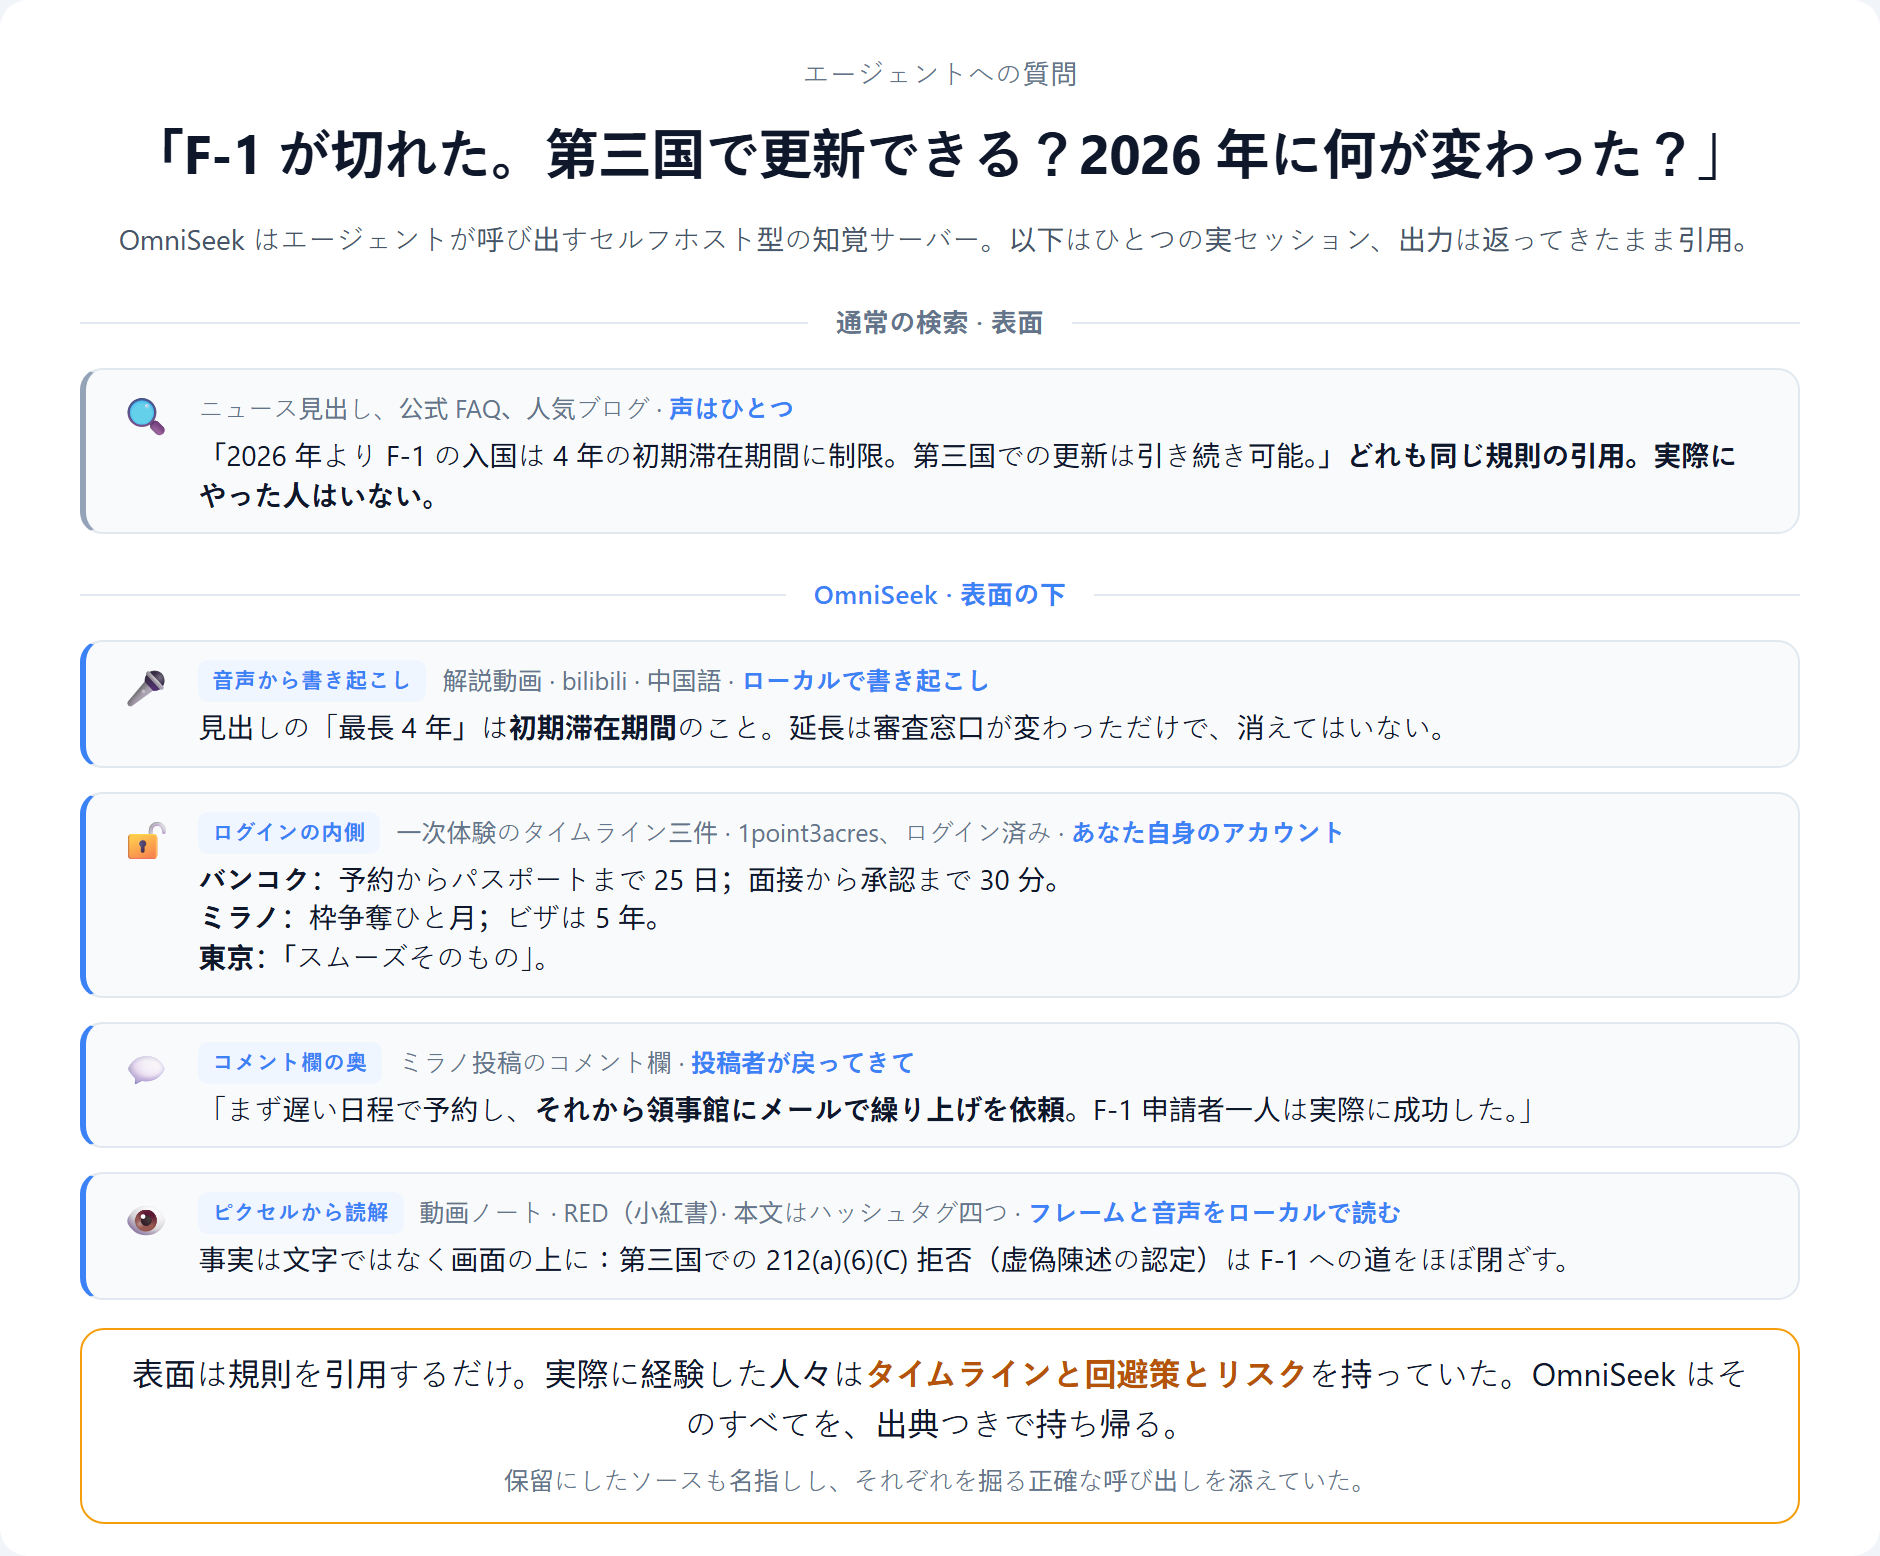
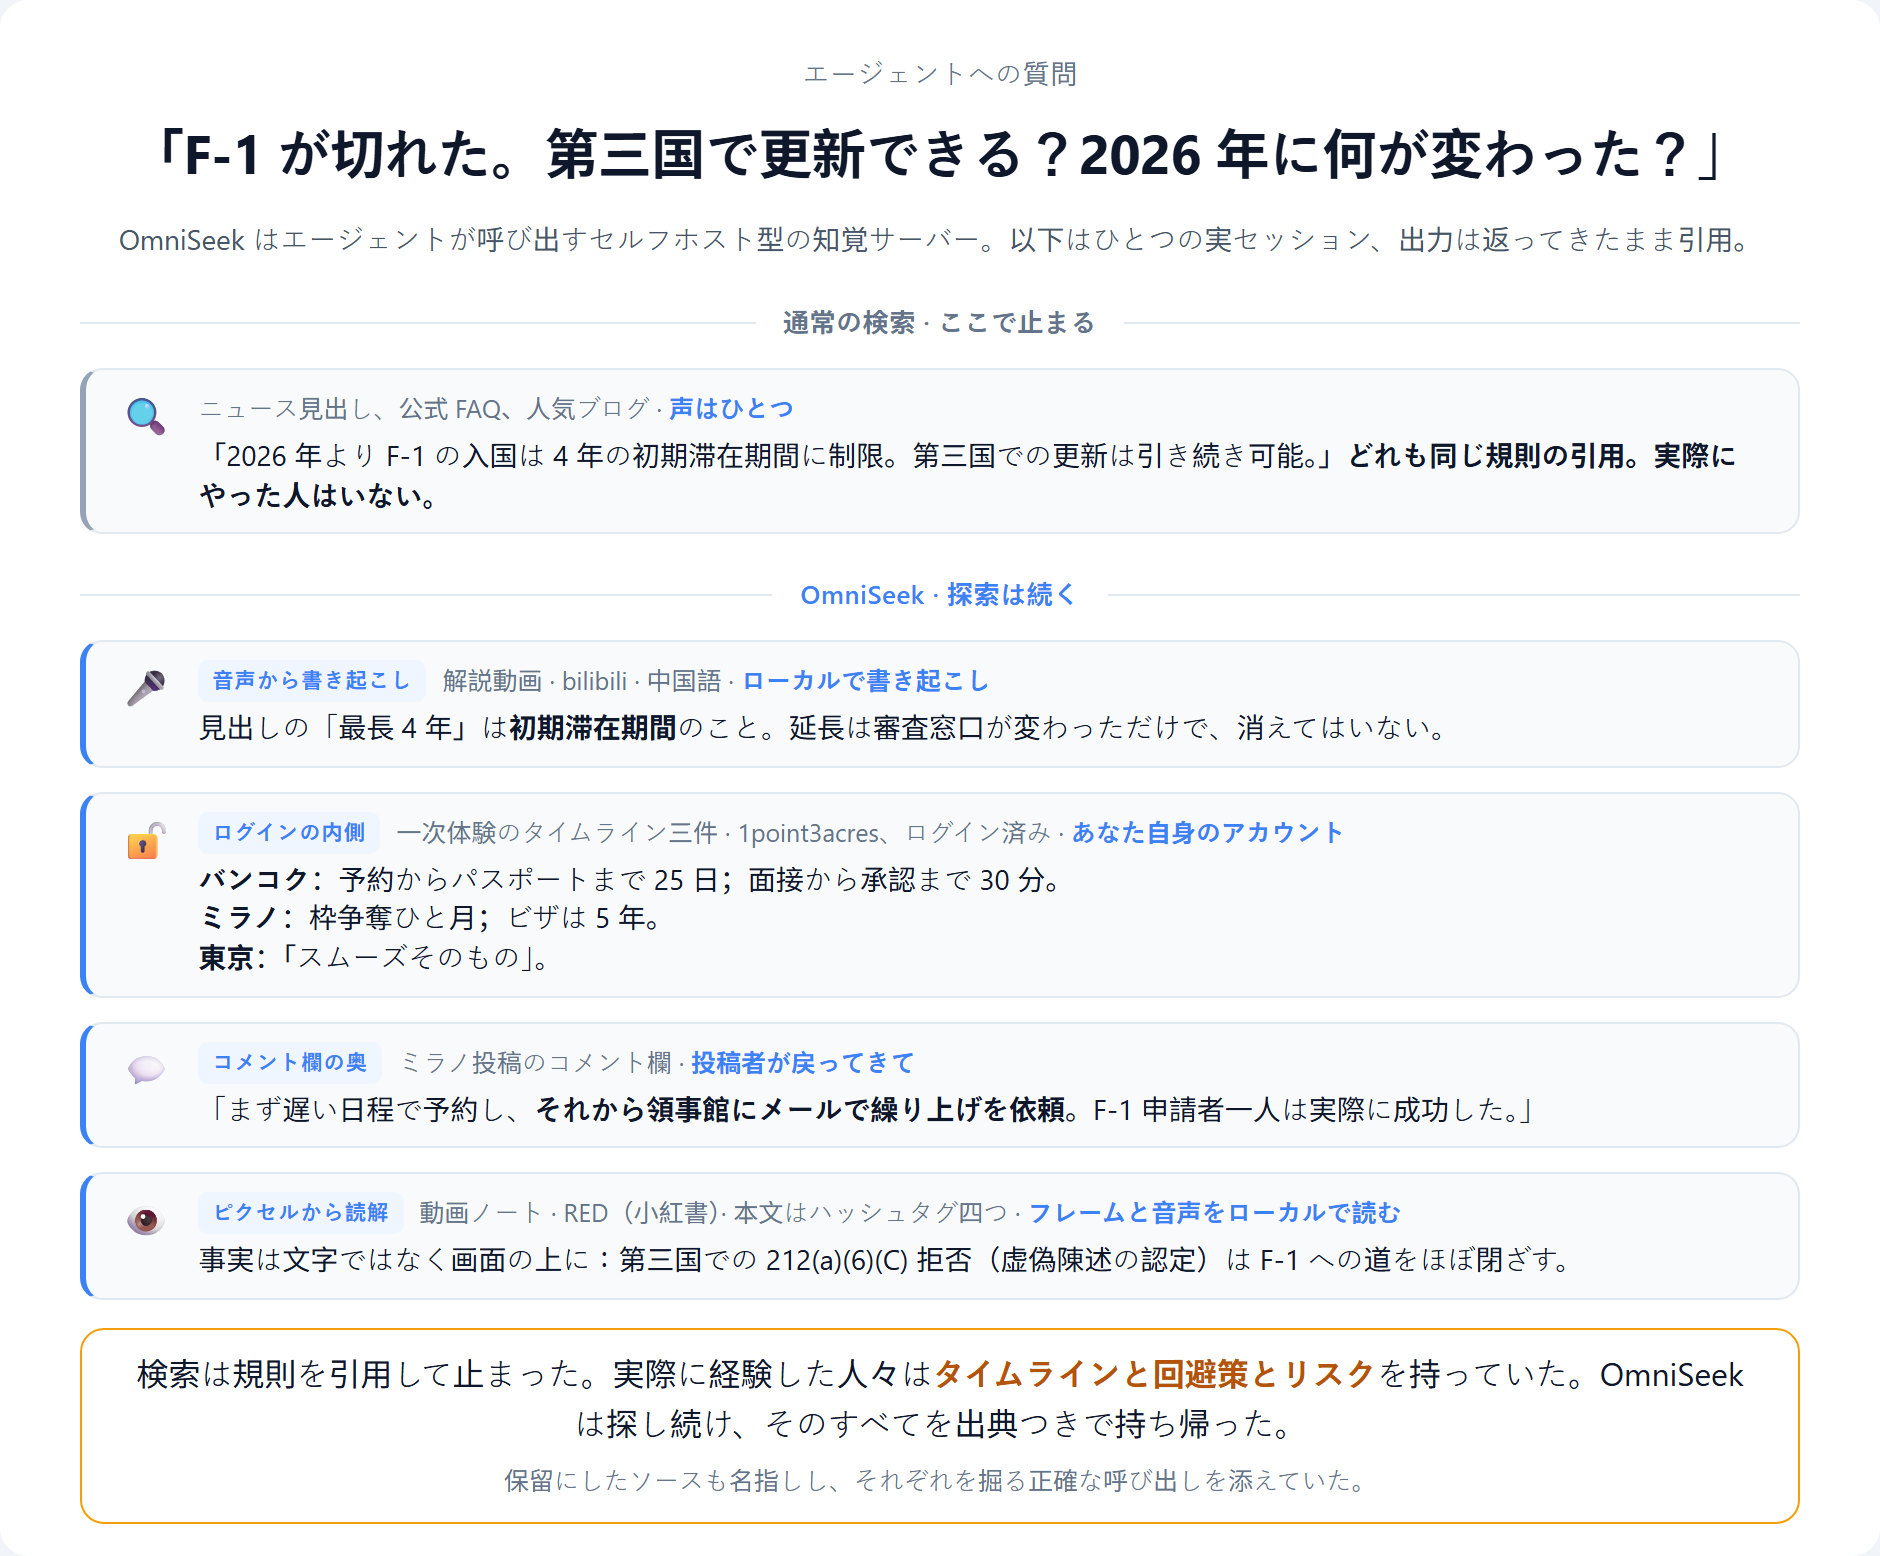
Reframe demo infographic around seeking

Changed region(s): [[0.0617, 0.8638, 0.9255, 0.9254], [0.4011, 0.1851, 0.5862, 0.2159], [0.4319, 0.3702, 0.5862, 0.401]]

diff --git a/assets/masters/gen_demo.py b/assets/masters/gen_demo.py
@@ -69,10 +69,10 @@ LANGS = {
         "@@ASK@@": "your agent is asked",
         "@@Q@@": "&ldquo;Can I renew my F-1 visa in a third country? What changed in 2026?&rdquo;",
         "@@WHATIS@@": "OmniSeek is a self-hosted perception server your agent calls. One live session below &middot; outputs quoted as returned.",
-        "@@SURFDIV@@": "plain search &middot; the surface",
+        "@@SURFDIV@@": "plain search &middot; where it stops",
         "@@SMETA@@": "headlines, official FAQ, top blogs &middot; <b>one voice</b>",
         "@@S1@@": "&ldquo;From 2026, F-1 admission is limited to a 4-year initial period; renewal in a third country remains possible.&rdquo; <b>All quote the same rule. None of them have done it.</b>",
-        "@@DIVIDER@@": "OmniSeek &middot; beneath the surface",
+        "@@DIVIDER@@": "OmniSeek &middot; the seek continues",
         "@@W1@@": "TRANSCRIBED FROM AUDIO", "@@W2@@": "BEHIND LOGIN", "@@W3@@": "DEEP IN THE COMMENTS", "@@W4@@": "READ FROM PIXELS",
         "@@C1META@@": "explainer video &middot; bilibili, Chinese &middot; <b>transcribed locally</b>",
         "@@C1@@": "The &ldquo;4-year cap&rdquo; in the headlines is the <b>initial period</b>. Extensions moved desks; they didn&rsquo;t vanish.",
@@ -82,17 +82,17 @@ LANGS = {
         "@@C3@@": "&ldquo;Book any late slot first, <b>then email the consulate to expedite</b>. For one F-1 applicant it worked.&rdquo; One person&rsquo;s experience, not official guidance.",
         "@@C4META@@": "video note &middot; rednote &middot; caption is four hashtags &middot; <b>frames and speech read locally</b>",
         "@@C4@@": "The facts are on screen, not in the caption: a 212(a)(6)(C) refusal abroad (a misrepresentation finding) can nearly close the F-1 road.",
-        "@@VERDICT@@": "The surface quoted the rule. The people who had lived it held <b>the timelines, the workaround, and the risk</b>. OmniSeek brought back all of it, each line attributed.",
+        "@@VERDICT@@": "Search quoted the rule and stopped. The people who had lived it held <b>the timelines, the workaround, and the risk</b>. OmniSeek kept seeking and brought back all of it, each line attributed.",
         "@@VERDICT2@@": "It also named the sources it held back, each with the exact call to drill it.",
     },
     "zh": {
         "@@ASK@@": "你的 agent 被问到",
         "@@Q@@": "「F-1 过期了，能去第三国续签吗？2026 新规改了什么？」",
         "@@WHATIS@@": "OmniSeek：自托管的感知服务器，你的 agent 直接调用。下方为一次真实会话，输出按原样引用。",
-        "@@SURFDIV@@": "普通搜索 &middot; 表面",
+        "@@SURFDIV@@": "普通搜索 &middot; 到此为止",
         "@@SMETA@@": "新闻头条、官方 FAQ、热门博客 &middot; <b>同一个声音</b>",
         "@@S1@@": "「2026 年起，F-1 入境限四年初始期；第三国续签仍被允许。」<b>引的都是同一条规则，谁都没真的办过。</b>",
-        "@@DIVIDER@@": "OmniSeek &middot; 表面之下",
+        "@@DIVIDER@@": "OmniSeek &middot; 求索继续",
         "@@W1@@": "音频转写", "@@W2@@": "登录墙内", "@@W3@@": "评论区深处", "@@W4@@": "像素读出",
         "@@C1META@@": "解读视频 &middot; bilibili &middot; 中文 &middot; <b>本地转写</b>",
         "@@C1@@": "头条说的「最多待 4 年」，其实是<b>初始停留期</b>。延期只是换了审批部门，并没有消失。",
@@ -102,17 +102,17 @@ LANGS = {
         "@@C3@@": "「先约一个靠后的日期，<b>再发邮件给领事馆申请加急</b>。有一位 F-1 申请人真的成功了。」个人经验，非官方指引。",
         "@@C4META@@": "视频笔记 &middot; 小红书 &middot; 正文只有四个话题标签 &middot; <b>帧与语音本地读取</b>",
         "@@C4@@": "干货在画面里，不在文字里：第三国遇上 212(a)(6)(C) 拒签（虚假陈述认定），F-1 之路几乎断送。",
-        "@@VERDICT@@": "表面复述规则。真正办过的人手里有<b>时间线、解法和风险</b>。OmniSeek 把它们全部带回，每一行都有出处。",
+        "@@VERDICT@@": "搜索引到规则就停了。真正办过的人手里有<b>时间线、解法和风险</b>。OmniSeek 一路求索，把它们全部带回，每一行都有出处。",
         "@@VERDICT2@@": "它还点名了被扣下的源，并附上钻取每一个的确切调用。",
     },
     "ja": {
         "@@ASK@@": "エージェントへの質問",
         "@@Q@@": "「F-1 が切れた。第三国で更新できる？2026 年に何が変わった？」",
         "@@WHATIS@@": "OmniSeek はエージェントが呼び出すセルフホスト型の知覚サーバー。以下はひとつの実セッション、出力は返ってきたまま引用。",
-        "@@SURFDIV@@": "通常の検索 &middot; 表面",
+        "@@SURFDIV@@": "通常の検索 &middot; ここで止まる",
         "@@SMETA@@": "ニュース見出し、公式 FAQ、人気ブログ &middot; <b>声はひとつ</b>",
         "@@S1@@": "「2026 年より F-1 の入国は 4 年の初期滞在期間に制限。第三国での更新は引き続き可能。」<b>どれも同じ規則の引用。実際にやった人はいない。</b>",
-        "@@DIVIDER@@": "OmniSeek &middot; 表面の下",
+        "@@DIVIDER@@": "OmniSeek &middot; 探索は続く",
         "@@W1@@": "音声から書き起こし", "@@W2@@": "ログインの内側", "@@W3@@": "コメント欄の奥", "@@W4@@": "ピクセルから読解",
         "@@C1META@@": "解説動画 &middot; bilibili &middot; 中国語 &middot; <b>ローカルで書き起こし</b>",
         "@@C1@@": "見出しの「最長 4 年」は<b>初期滞在期間</b>のこと。延長は審査窓口が変わっただけで、消えてはいない。",
@@ -122,7 +122,7 @@ LANGS = {
         "@@C3@@": "「まず遅い日程で予約し、<b>それから領事館にメールで繰り上げを依頼</b>。F-1 申請者一人は実際に成功した。」",
         "@@C4META@@": "動画ノート &middot; RED（小紅書）&middot; 本文はハッシュタグ四つ &middot; <b>フレームと音声をローカルで読む</b>",
         "@@C4@@": "事実は文字ではなく画面の上に：第三国での 212(a)(6)(C) 拒否（虚偽陳述の認定）は F-1 への道をほぼ閉ざす。",
-        "@@VERDICT@@": "表面は規則を引用するだけ。実際に経験した人々は<b>タイムラインと回避策とリスク</b>を持っていた。OmniSeek はそのすべてを、出典つきで持ち帰る。",
+        "@@VERDICT@@": "検索は規則を引用して止まった。実際に経験した人々は<b>タイムラインと回避策とリスク</b>を持っていた。OmniSeek は探し続け、そのすべてを出典つきで持ち帰った。",
         "@@VERDICT2@@": "保留にしたソースも名指しし、それぞれを掘る正確な呼び出しを添えていた。",
     },
 }
